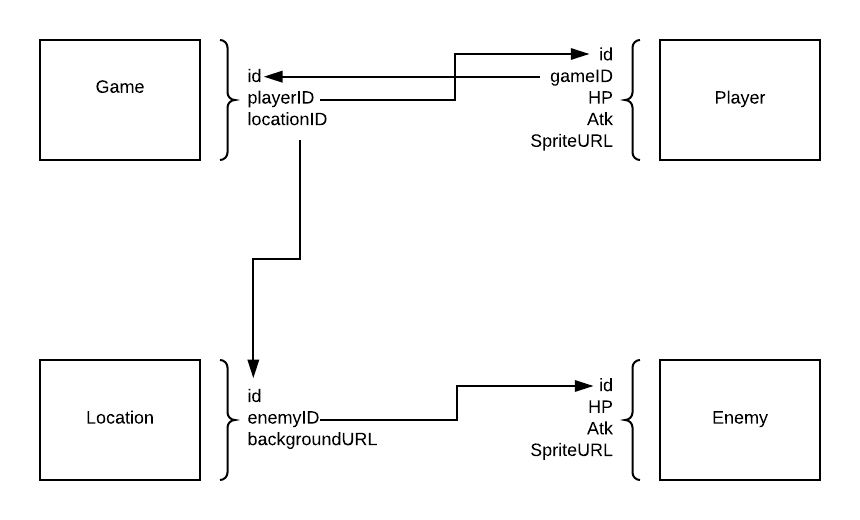
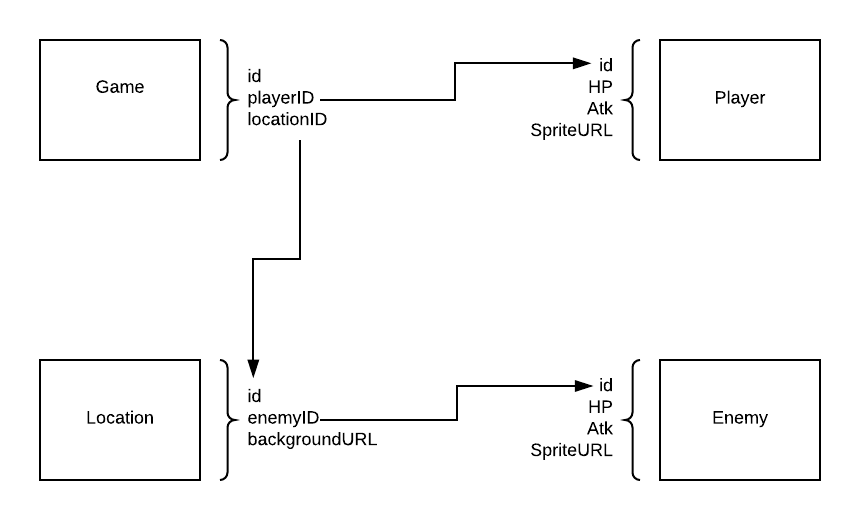
Server finally working.

Changed region(s): [[0.3023, 0.0923, 0.7256, 0.3077]]

diff --git a/models/game.js b/models/game.js
@@ -1,19 +1,19 @@
 module.exports = function(sequelize, DataTypes) {
-    var Game = sequelize.define("Sequelize", {
+    var Game = sequelize.define("Game", {
         started: DataTypes.BOOLEAN
     });
 
     Game.associate = function(models) {
-        Game.belongsTo(models.Player, {
-            foreignKey: {
-                allowNull: false
-            }
-        })
         Game.hasOne(models.Location_, {
             foreignKey: {
                 allowNull: false
             }
         });
+        Game.hasOne(models.Player, {
+            foreignKey: {
+                allowNull: false
+            }
+        })
     }
     return Game;
   };

diff --git a/models/player.js b/models/player.js
@@ -1,5 +1,5 @@
 module.exports = function (sequelize, DataTypes) {
-    var Player = sequelize.define("Sequelize", {
+    var Player = sequelize.define("Player", {
         hp: {
             type: DataTypes.INTEGER,
             allowNull: false
@@ -15,12 +15,7 @@ module.exports = function (sequelize, DataTypes) {
     });
 
     Player.associate = function (models) {
-        Player.belongsTo(models.Player, {
-            foreignKey: {
-                allowNull: false
-            }
-        })
-        Player.hasOne(models.Game, {
+        Player.belongsTo(models.Game, {
             foreignKey: {
                 allowNull: false
             }

diff --git a/models/location_.js b/models/location_.js
@@ -1,6 +1,6 @@
 module.exports = function(sequelize, DataTypes) {
     // Add underscore to Location because Location is keyword or something
-    var Location_ = sequelize.define("Sequelize", {
+    var Location_ = sequelize.define("Location_", {
         BackgroundURL: {
             type: DataTypes.STRING
         }

diff --git a/models/enemy.js b/models/enemy.js
@@ -1,5 +1,5 @@
 module.exports = function (sequelize, DataTypes) {
-    var Enemy = sequelize.define("Sequelize", {
+    var Enemy = sequelize.define("Enemy", {
         hp: {
             type: DataTypes.INTEGER,
             allowNull: false
